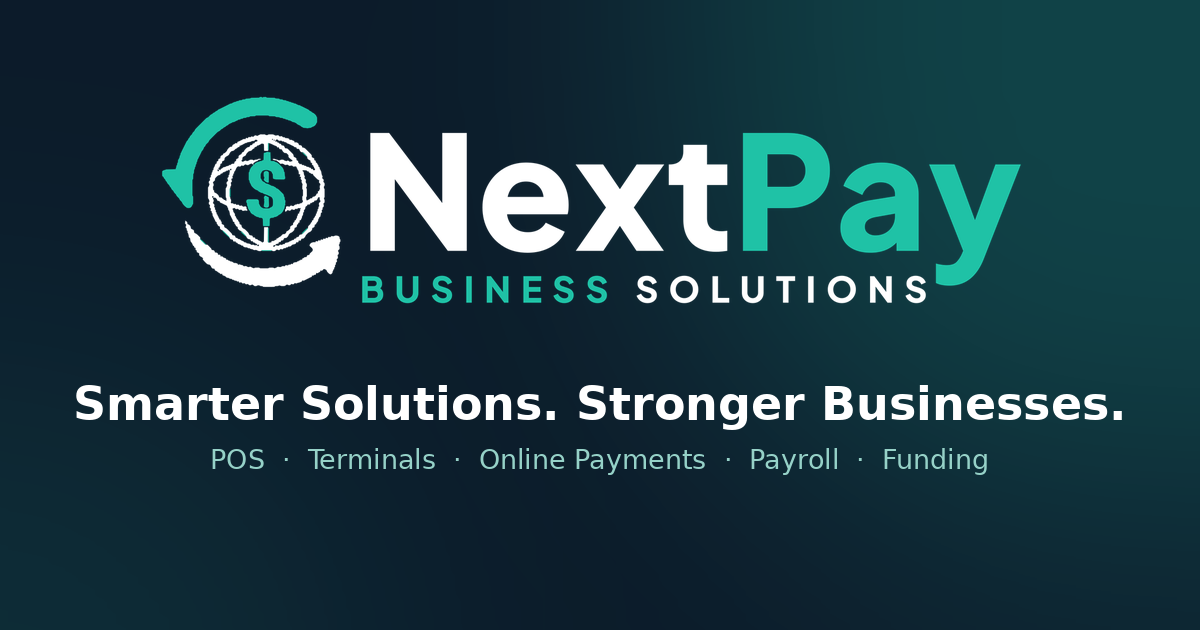
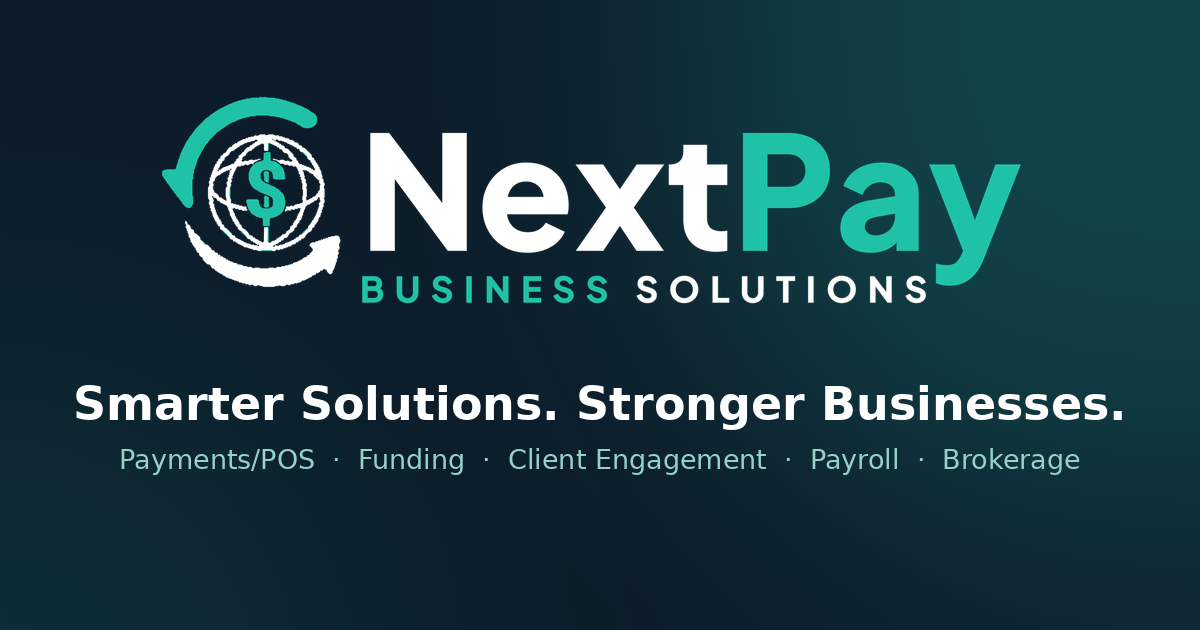
OG categories + quiz 'other services' option + NRS card fix
- Link-preview image sub-line now reads: Payments/POS · Funding · Client
  Engagement · Payroll · Brokerage.
- Quiz 'What do you need?' gains a 'Not payments — other services' option
  that skips the payment-pricing questions and recommends payroll,
  bookkeeping, financing, NextLink, rewards, HR and brokerage.
- NRS POS card: drop the wrong PAX A35 image (now a clean NRS POS Register
  placeholder) and fix the copy that said 'runs on the PAX A35'.

Claude-Session: https://claude.ai/code/session_01CDjTsx3yuVAoije6HYZZLy

Changed region(s): [[0.0925, 0.6937, 0.8942, 0.754]]

diff --git a/js/quiz.js b/js/quiz.js
@@ -14,7 +14,8 @@
       {v:'pos',t:'A full POS system',d:'Software + hardware to run checkout, ordering, and back office.'},
       {v:'terminal',t:'A standalone terminal',d:'Just a device to take cards — no full POS needed.'},
       {v:'online',t:'Gateway / software only',d:'Online payments, invoicing, virtual terminal — no hardware.'},
-      {v:'combo',t:'A combination',d:'POS + online, or terminal + invoicing software.'}]},
+      {v:'combo',t:'A combination',d:'POS + online, or terminal + invoicing software.'},
+      {v:'other',t:'Not payments — other services',d:'Payroll, HR, bookkeeping, financing, rewards, outreach & marketing.'}]},
     {id:'industry',q:'What industry are you in?',sub:'This drives the core recommendations.',type:'single',opts:[
       {v:'fnb',t:'Food & Beverage',d:'Restaurant, bar, café, food truck, QSR, catering.'},
       {v:'retail',t:'Retail',d:'Clothing, specialty, gift shop, general retail.'},
@@ -37,12 +38,14 @@
       when:a=>a.industry==='services'||a.industry==='home',opts:[
       {v:'yes',t:'Yes — payments from my phone',d:'At a customer site, field work, or away from a fixed location.'},
       {v:'no',t:'No — mostly fixed location',d:'Counter, desk, or office-based checkout.'}]},
-    {id:'volume',q:'Monthly card volume?',sub:'Helps match the right pricing model.',type:'single',opts:[
+    {id:'volume',q:'Monthly card volume?',sub:'Helps match the right pricing model.',type:'single',
+      when:a=>a.need!=='other',opts:[
       {v:'a',t:'Under $20,000 / month',d:'Early stage or lower-volume.'},
       {v:'b',t:'$20,000 – $60,000 / month',d:'Growing with steady card volume.'},
       {v:'c',t:'$60,000 – $120,000 / month',d:'Established with strong volume.'},
       {v:'d',t:'$120,000+ / month',d:'High-volume — custom pricing.'}]},
-    {id:'ticket',q:'Average transaction size?',sub:'Affects which pricing model benefits you most.',type:'single',opts:[
+    {id:'ticket',q:'Average transaction size?',sub:'Affects which pricing model benefits you most.',type:'single',
+      when:a=>a.need!=='other',opts:[
       {v:'a',t:'Under $20',d:'Quick service, low-cost items.'},
       {v:'b',t:'$20 – $40',d:'Moderate services or retail purchases.'},
       {v:'c',t:'$40 – $80',d:'Professional services, specialty products.'},
@@ -62,6 +65,15 @@
   function C(name,role,why,price,href){return {name,role,why,price,href,top:role.indexOf('Top')===0};}
   function recCards(a){
     const I=a.industry,need=a.need,hw=a.hardware,offset=(a.addons||[]).includes('offset');
+    if(need==='other') return [
+      C('Payroll & Workers Comp','Service','Full-service payroll, tax filing & workers comp coverage.','See details','Payroll - Workers Comp.html'),
+      C('Bookkeeping','Service','Reconciliation, reports & tax-ready books.','See details','Bookkeeping.html'),
+      C('Business Financing','Service','Working capital, equipment loans & cash advances.','See details','Business Financing.html'),
+      C('NextLink — Outreach & Marketing','Service','Reviews, reputation & automated client outreach.','See details','Client Automation Outreach.html'),
+      C('Merchant Rewards','Service','Earn points on every dollar you process.','See details','Merchant Rewards.html'),
+      C('HR & Compliance','Service','HR tools & compliance for growing teams.','See details','HR - Compliance.html'),
+      C('Business Brokerage','Service','Buy, sell, or get a business valuation.','See details','Business Brokerage.html')
+    ];
     function pos(){
       const lease=hw==='lease';
       if(I==='fnb') return lease

diff --git a/POS Systems.html b/POS Systems.html
@@ -540,10 +540,10 @@ window.addEventListener('load',function(){document.querySelectorAll('img.brandlo
     </div>
     <div class="tgrid">
       <article class="pcard" id="pos-nrs-register">
-        <div class="pimg"><span class="tag tag-navy pbadge">Popular for Tobacco, Vape &amp; Retail</span><image-slot id="p-nrs-register" src="assets/terminals/pax-a35.jpeg" fit="contain" radius="0" placeholder="NRS POS Register"></image-slot></div>
+        <div class="pimg"><span class="tag tag-navy pbadge">Popular for Tobacco, Vape &amp; Retail</span><image-slot id="p-nrs-register" fit="contain" radius="0" placeholder="NRS POS Register"></image-slot></div>
         <div class="pbody">
           <img class="brandlogo cardbrand-img" src="assets/logos/nrs.png" alt="NRS"><h3>NRS POS Register</h3>
-          <p class="pdesc">All-in-one bodega register with scanner, customer-facing screen and cash discount — runs on the PAX A35.</p>
+          <p class="pdesc">All-in-one bodega register with a built-in barcode scanner, customer-facing display, and cash-discount support — purpose-built for convenience stores.</p>
           <div class="pspecs"><span class="tag">All-in-one</span><span class="tag">Scanner</span><span class="tag">Cash discount</span></div>
           <div class="pmeta"><div class="pmeta-row"><span>Standard</span><b>2.49% + 10&cent;</b></div><div class="pmeta-row"><span>Statement min</span><b>$10/mo</b></div><div class="pmeta-row"><span>Cash discount</span><b>$49.95/mo flat &middot; $0 per transaction</b></div></div>
           <div class="pcta"><div class="pcta-row"><a class="btn btn-primary btn-sm" href="#pos-nrs-register">See pricing</a><a class="btn btn-outline btn-sm" href="NRS.html" target="_blank" rel="noopener">Learn more</a></div>
